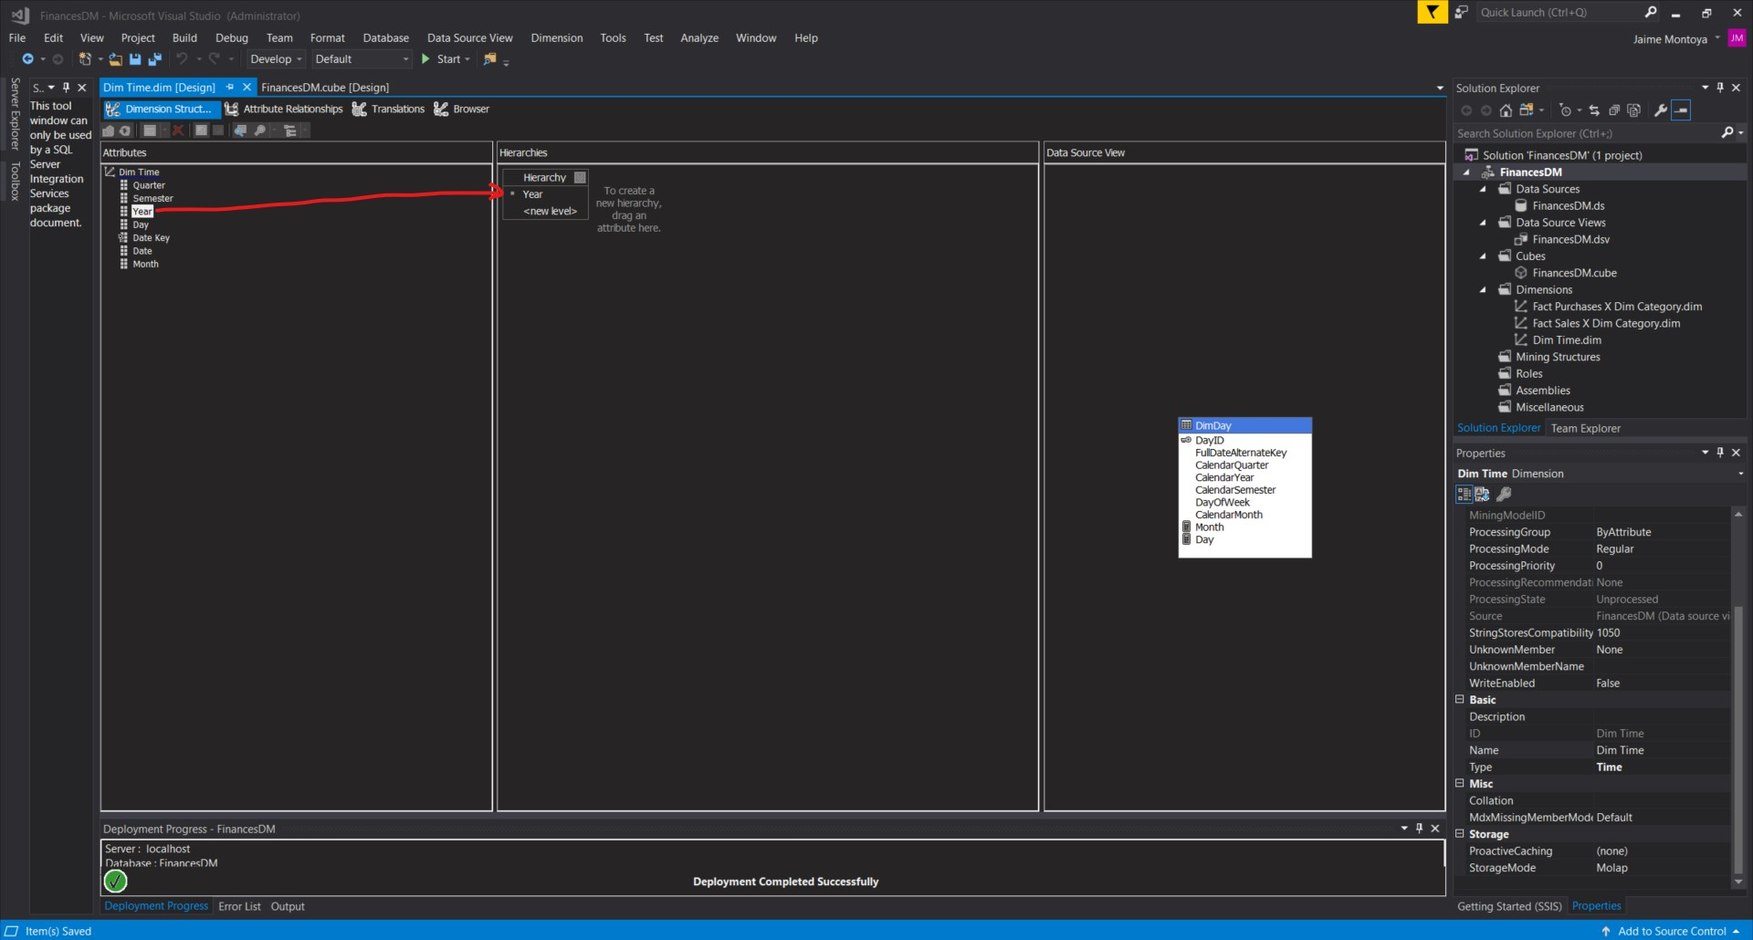
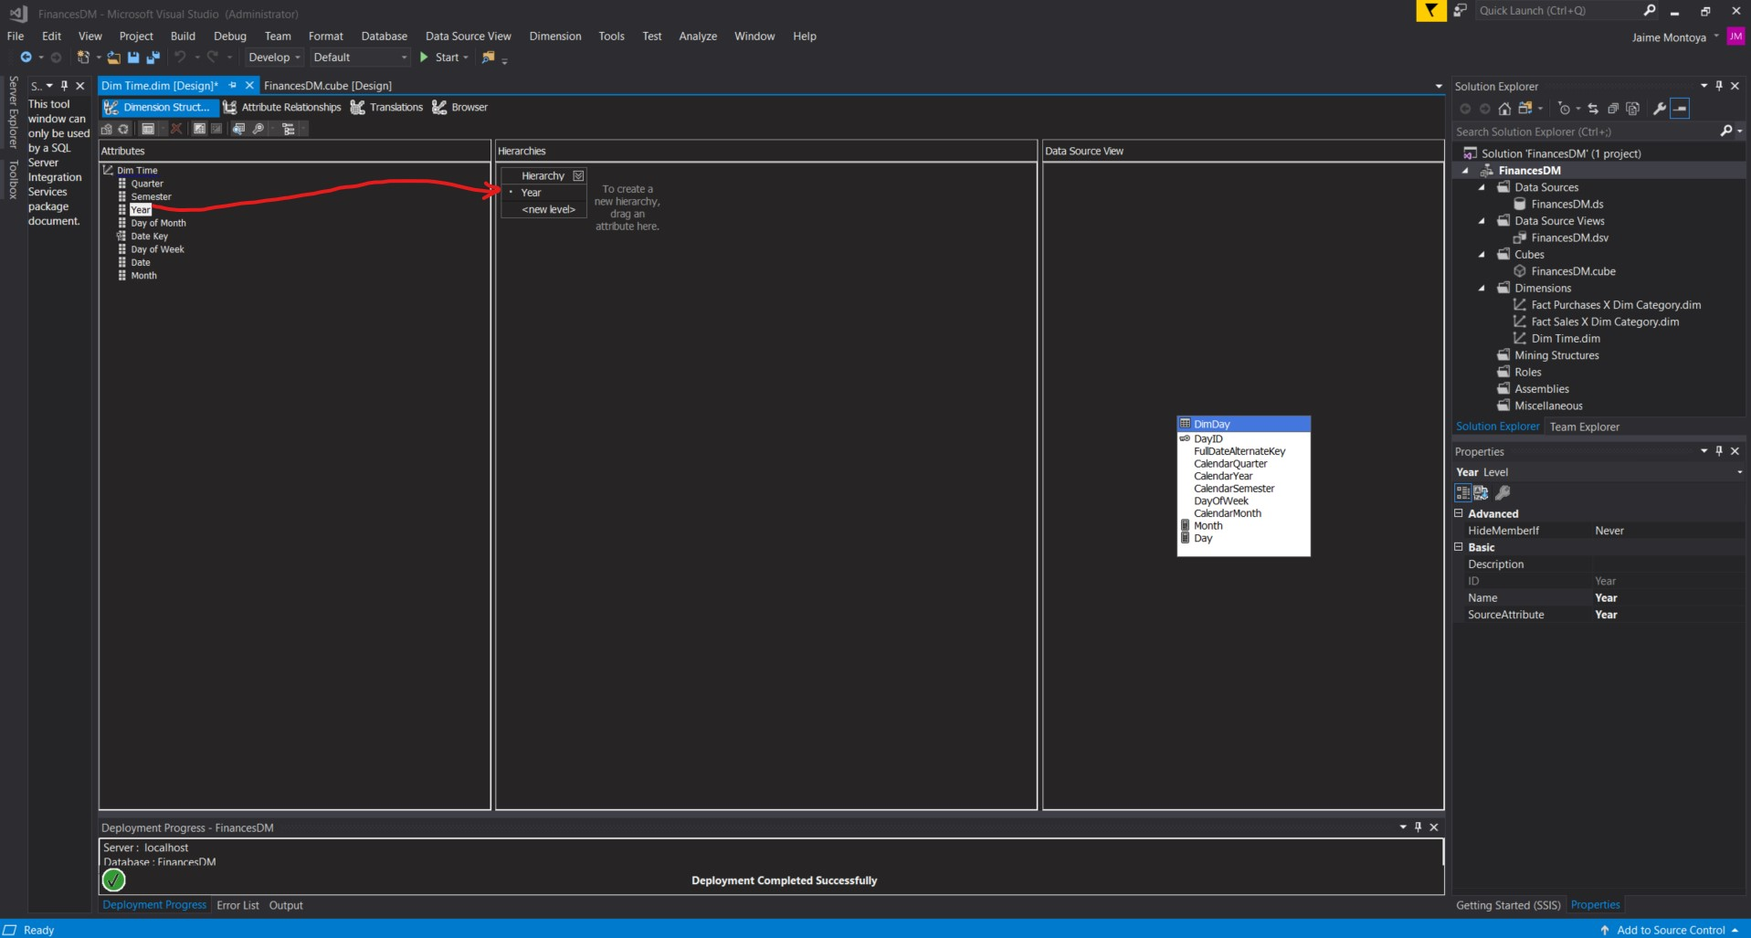
Update image.

diff --git a/blog/2023/12/31/06/14/book-info-20231231-0614.php b/blog/2023/12/31/06/14/book-info-20231231-0614.php
@@ -17,8 +17,8 @@ WHEN CalendarMonth = 11 THEN 'November'
 WHEN CalendarMonth = 12 THEN 'December'
 END
 </pre>		   
-		   </td></tr><tr><td>Day</td><td><span class=\"cod\">CONVERT(int, RIGHT(DayID, 2))</span></td></tr></table><p>I created the <span class=\"cod\">Named Calculation</span> for <span class=\"cod\">Month</span>:</p><div><img src=\"/blog/2023/12/31/06/14/img/createNamedCalculationForMonth.jpg\" alt=\"Create Named Calculation for Month\" width=\"1920\" height=\"1030\"></div><p>I created the <span class=\"cod\">Named Calculation</span> for <span class=\"cod\">Day</span>:</p><div><img src=\"/blog/2023/12/31/06/14/img/createNamedCalculationForDay.jpg\" alt=\"Create Named Calculation for Day\" width=\"1920\" height=\"1026\"></div><p>The new <span class=\"cod\">Named Calculations</span> appeared in the <span class=\"cod\">FinancesDM.dsv Data Source View</span> diagram:</p><div><img src=\"/blog/2023/12/31/06/14/img/calculatedColumnsInDataSourceView.jpg\" alt=\"Calculated columns in Data Source View\" width=\"1919\" height=\"1030\"></div><p>I right-clicked the <span class=\"cod\">DimDay</span> table and clicked <span class=\"cod\">Explore Data</span>:</p><div><img src=\"/blog/2023/12/31/06/14/img/exploreDataFromDataSourceView.jpg\" alt=\"Explore Data from Data Source View\" width=\"1916\" height=\"1028\"></div><p>The <span class=\"cod\">Explore DimDay Table</span> tab appeared with the corresponding results from the view:</p><div><img src=\"/blog/2023/12/31/06/14/img/exploreDimDayTable.jpg\" alt=\"Explore DimDay table\" width=\"1919\" height=\"1030\"></div><p>The results above were exactly the same as when running <span class=\"cod\">SELECT * FROM [Finances].[dbo].[DimDay]</span> from <span class=\"cod\">SQL Server Management Studio</span>, except for the two <span class=\"cod\">Calculated Columns</span> (<span class=\"cod\">Month</span> and <span class=\"cod\">Day</span>):</p><div><img src=\"/blog/2023/12/31/06/14/img/exploreDimDayTableDataFromSQLServerManagementStudio.jpg\" alt=\"Explore DimDay table data from SQL Server Management Studio\" width=\"1920\" height=\"1029\"></div><p>I double-clicked <span class=\"cod\">FinancesDM.cube</span> to open the <span class=\"cod\">FinancesDM.cube [Design]</span> tab. The <span class=\"cod\">Calculated Columns</span> were included in the cube diagram:</p><div><img src=\"/blog/2023/12/31/06/14/img/includeCalculatedColumnsInCubeDiagram.jpg\" alt=\"Include Calculated Columns in cube diagram\" width=\"1917\" height=\"1028\"></div><p>I right-clicked <span class=\"cod\">Dim Time.dim</span> and clicked <span class=\"cod\">Delete</span>:</p><div><img src=\"/blog/2023/12/31/06/14/img/deleteTimeDimension.jpg\" alt=\"Delete Time dimension\" width=\"1918\" height=\"1030\"></div><p>I clicked <span class=\"cod\">OK</span> to delete the <span class=\"cod\">Dim Time</span> object:</p><div><img src=\"/blog/2023/12/31/06/14/img/deleteDimTimeObject.jpg\" alt=\"Delete Dim Time object\" width=\"1918\" height=\"1028\"></div><p>I right-clicked the <span class=\"cod\">Dimensions</span> entry in the <span class=\"cod\">Solution Explorer</span> window, and selected <span class=\"cod\">New Dimension</span> from the context menu:</p><div><img src=\"/blog/2023/12/31/06/14/img/createNewTimeDimension.jpg\" alt=\"Create new Time dimension\" width=\"1922\" height=\"1080\"></div><p>The <span class=\"cod\">Dimension Wizard</span> dialog box appeared. I clicked <span class=\"cod\">Next</span>:</p><div><img src=\"/blog/2023/12/31/06/14/img/startDimensionWizard.jpg\" alt=\"Start Dimension Wizard\" width=\"1918\" height=\"1029\"></div><p>The <span class=\"cod\">Select Creation Method</span> page of the wizard appeared. I left the <span class=\"cod\">Use an existing table</span> item selected and clicked <span class=\"cod\">Next</span>:</p><div><img src=\"/blog/2023/12/31/06/14/img/useAnExistingTableToCreateDimension.jpg\" alt=\"Use an existing table to create dimension\" width=\"1919\" height=\"1028\"></div><p>The <span class=\"cod\">Specify Source Information</span> page appeared. The <span class=\"cod\">FinancesDM</span> data source view was already selected. I selected <span class=\"cod\">DimDay</span> from the <span class=\"cod\">Main table</span> drop-down list. <span class=\"cod\">DayID</span> was selected as the first and only <span class=\"cod\">Key column</span>. I selected <span class=\"cod\">DayID</span> from the drop-down list at the bottom. I clicked <span class=\"cod\">Next</span>:</p><div><img src=\"/blog/2023/12/31/06/14/img/specifySourceInformationForTimeDimension.jpg\" alt=\"Specify Source Information for Time dimension\" width=\"1917\" height=\"1031\"></div><p>The <span class=\"cod\">Select Dimension Attributes</span> page appeared. I left <span class=\"cod\">Day ID</span> checked and also checked <span class=\"cod\">Full Date Alternate Key</span>, <span class=\"cod\">Calendar Quarter</span>, <span class=\"cod\">Calendar Year</span>, <span class=\"cod\">Calendar Semester</span>, <span class=\"cod\">Day Of Week</span>, <span class=\"cod\">Month</span>, and <span class=\"cod\">Day</span>. I clicked in the <span class=\"cod\">Attribute Type column</span> across from <span class=\"cod\">Day ID</span>. I clicked the drop-down arrow. I expanded the <span class=\"cod\">Date</span> entry. I expanded the <span class=\"cod\">Calendar</span> entry. I selected <span class=\"cod\">Date</span> and clicked <span class=\"cod\">OK</span>:</p><div><img src=\"/blog/2023/12/31/06/14/img/defineAttributeTypeForDayID.jpg\" alt=\"Define Attribute Type for Day ID\" width=\"1916\" height=\"1029\"></div><p>I clicked in the <span class=\"cod\">Attribute Type column</span> across from <span class=\"cod\">Full Date Alternate Key</span>. I clicked the drop-down arrow. I expanded the <span class=\"cod\">Date</span> entry. I expanded the <span class=\"cod\">Calendar</span> entry. I selected <span class=\"cod\">Date</span> and clicked <span class=\"cod\">OK</span>:</p><div><img src=\"/blog/2023/12/31/06/14/img/selectDateAttributeType.jpg\" alt=\"Select Date Attribute Type\" width=\"1916\" height=\"1029\"></div><p>I clicked in the <span class=\"cod\">Attribute Type</span> column across from <span class=\"cod\">Calendar Quarter</span>. I clicked the drop-down arrow. I expanded the <span class=\"cod\">Date</span> entry. I expanded the <span class=\"cod\">Calendar</span> entry. I selected <span class=\"cod\">Quarter</span> and clicked <span class=\"cod\">OK</span>:</p><div><img src=\"/blog/2023/12/31/06/14/img/selectQuarterAttributeType.jpg\" alt=\"Select Quarter Attribute Type\" width=\"1917\" height=\"1031\"></div><p>I clicked in the <span class=\"cod\">Attribute Type</span> column across from <span class=\"cod\">Calendar Year</span>. I clicked the drop-down arrow. I expanded the <span class=\"cod\">Date</span> entry. I expanded the <span class=\"cod\">Calendar</span> entry. I selected <span class=\"cod\">Year</span> and clicked <span class=\"cod\">OK</span>:</p><div><img src=\"/blog/2023/12/31/06/14/img/selectYearAttributeTypeForDimension.jpg\" alt=\"Select Year Attribute Type for Dimension\" width=\"1916\" height=\"1030\"></div><p>I clicked in the <span class=\"cod\">Attribute Type</span> column across from <span class=\"cod\">Calendar Semester</span>. I clicked the drop-down arrow. I expanded the <span class=\"cod\">Date</span> entry. I expanded the <span class=\"cod\">Calendar</span> entry. I selected <span class=\"cod\">Half Year</span> and clicked <span class=\"cod\">OK</span>:</p><div><img src=\"/blog/2023/12/31/06/14/img/selectHalfYearAttributeTypeForDimension.jpg\" alt=\"Select Half Year Attribute Type for Dimension\" width=\"1919\" height=\"1028\"></div><p>I clicked in the <span class=\"cod\">Attribute Type</span> column across from <span class=\"cod\">Day Of Week</span>. I clicked the drop-down arrow. I expanded the <span class=\"cod\">Date</span> entry. I expanded the <span class=\"cod\">Calendar</span> entry. I selected <span class=\"cod\">Day of Week</span> and clicked <span class=\"cod\">OK</span>:</p><div><img src=\"/blog/2023/12/31/06/14/img/selectDayOfWeekAttributeTypeForDimension.jpg\" alt=\"Select Month Attribute Type for Dimension\" width=\"1919\" height=\"1026\"></div><p>I clicked in the <span class=\"cod\">Attribute Type</span> column across from <span class=\"cod\">Month</span>. I clicked the drop-down arrow. I expanded the <span class=\"cod\">Date</span> entry. I expanded the <span class=\"cod\">Calendar</span> entry. I selected <span class=\"cod\">Month</span> and clicked <span class=\"cod\">OK</span>:</p><div><img src=\"/blog/2023/12/31/06/14/img/selectMonthAttributeTypeForDimension.jpg\" alt=\"Select Month Attribute Type for Dimension\" width=\"1915\" height=\"1025\"></div><p>I clicked in the <span class=\"cod\">Attribute Type</span> column across from <span class=\"cod\">Day</span>. I clicked the drop-down arrow. I expanded the <span class=\"cod\">Date</span> entry. I expanded the <span class=\"cod\">Calendar</span> entry. I selected <span class=\"cod\">Day of Month</span> and clicked <span class=\"cod\">OK</span>:</p><div><img src=\"/blog/2023/12/31/06/14/img/selectDayOfMonthAttributeForDimension.jpg\" alt=\"Select Day of Month Attribute Type for Dimension\" width=\"1917\" height=\"1029\"></div><p>I clicked <span class=\"cod\">Next</span>:</p><div><img src=\"/blog/2023/12/31/06/14/img/clickNextAfterSelectingTimeDimensionAttributes.jpg\" alt=\"Click Next after selecting Time Dimension attributes\" width=\"1917\" height=\"1030\"></div><p>The <span class=\"cod\">Completing the Wizard</span> page appeared. I changed the name to <span class=\"cod\">Dim Time</span>. I clicked <span class=\"cod\">Finish</span>:</p><div><img src=\"/blog/2023/12/31/06/14/img/clickFinishToCompleteCreationOfTimeDimension.jpg\" alt=\"Click Finish to complete creation of Time Dimension\" width=\"1918\" height=\"1029\"></div><p>The <span class=\"cod\">Dimension Design</span> tab appeared with the <span class=\"cod\">Dim Time</span> dimension:</p><div><img src=\"/blog/2023/12/31/06/14/img/timeDimensionDesignTabForNewTimeDimension.jpg\" alt=\"Time Dimension Design tab for new Time Dimension\" width=\"1917\" height=\"1028\"></div><p>I right-clicked the entry for <span class=\"cod\">Day ID</span> in the <span class=\"cod\">Attributes</span> area, and selected <span class=\"cod\">Rename</span> from the context menu:</p><div><img src=\"/blog/2023/12/31/06/14/img/renameDayIDAttribute.jpg\" alt=\"Rename Day ID Attribute\" width=\"1914\" height=\"1028\"></div><p>I entered <span class=\"cod\">Date Key</span> for the name of this attribute, and pressed <span class=\"cod\">ENTER</span>:</p><div><img src=\"/blog/2023/12/31/06/14/img/dayIDRenamedToDateKey.jpg\" alt=\"Day ID renamed to Date Key\" width=\"1918\" height=\"1028\"></div><p>I repeated the steps above to rename the other attributes as follows:</p><table><tbody><tr><th>Old name</th><th>New name</th></tr><tr><td>Calendar Quarter</td><td>Quarter</td></tr><tr><td>Calendar Semester</td><td>Semester</td></tr><tr><td>Calendar Year</td><td>Year</td></tr><tr><td>Day</td><td>Day of Month</td></tr><tr><td>Day Of Week</td><td>Day of Week</td></tr><tr><td>Full Date Alternate Key</td><td>Date</td></tr></tbody></table><div><img src=\"/blog/2023/12/31/06/14/img/renameTimeAttributes.jpg\" alt=\"Rename Time Attributes\" width=\"1917\" height=\"1027\"></div>
+		   </td></tr><tr><td>Day</td><td><span class=\"cod\">CONVERT(int, RIGHT(DayID, 2))</span></td></tr></table><p>I created the <span class=\"cod\">Named Calculation</span> for <span class=\"cod\">Month</span>:</p><div><img src=\"/blog/2023/12/31/06/14/img/createNamedCalculationForMonth.jpg\" alt=\"Create Named Calculation for Month\" width=\"1920\" height=\"1030\"></div><p>I created the <span class=\"cod\">Named Calculation</span> for <span class=\"cod\">Day</span>:</p><div><img src=\"/blog/2023/12/31/06/14/img/createNamedCalculationForDay.jpg\" alt=\"Create Named Calculation for Day\" width=\"1920\" height=\"1026\"></div><p>The new <span class=\"cod\">Named Calculations</span> appeared in the <span class=\"cod\">FinancesDM.dsv Data Source View</span> diagram:</p><div><img src=\"/blog/2023/12/31/06/14/img/calculatedColumnsInDataSourceView.jpg\" alt=\"Calculated columns in Data Source View\" width=\"1919\" height=\"1030\"></div><p>I right-clicked the <span class=\"cod\">DimDay</span> table and clicked <span class=\"cod\">Explore Data</span>:</p><div><img src=\"/blog/2023/12/31/06/14/img/exploreDataFromDataSourceView.jpg\" alt=\"Explore Data from Data Source View\" width=\"1916\" height=\"1028\"></div><p>The <span class=\"cod\">Explore DimDay Table</span> tab appeared with the corresponding results from the view:</p><div><img src=\"/blog/2023/12/31/06/14/img/exploreDimDayTable.jpg\" alt=\"Explore DimDay table\" width=\"1919\" height=\"1030\"></div><p>The results above were exactly the same as when running <span class=\"cod\">SELECT * FROM [Finances].[dbo].[DimDay]</span> from <span class=\"cod\">SQL Server Management Studio</span>, except for the two <span class=\"cod\">Calculated Columns</span> (<span class=\"cod\">Month</span> and <span class=\"cod\">Day</span>):</p><div><img src=\"/blog/2023/12/31/06/14/img/exploreDimDayTableDataFromSQLServerManagementStudio.jpg\" alt=\"Explore DimDay table data from SQL Server Management Studio\" width=\"1920\" height=\"1029\"></div><p>I double-clicked <span class=\"cod\">FinancesDM.cube</span> to open the <span class=\"cod\">FinancesDM.cube [Design]</span> tab. The <span class=\"cod\">Calculated Columns</span> were included in the cube diagram:</p><div><img src=\"/blog/2023/12/31/06/14/img/includeCalculatedColumnsInCubeDiagram.jpg\" alt=\"Include Calculated Columns in cube diagram\" width=\"1917\" height=\"1028\"></div><p>I right-clicked <span class=\"cod\">Dim Time.dim</span> and clicked <span class=\"cod\">Delete</span>:</p><div><img src=\"/blog/2023/12/31/06/14/img/deleteTimeDimension.jpg\" alt=\"Delete Time dimension\" width=\"1918\" height=\"1030\"></div><p>I clicked <span class=\"cod\">OK</span> to delete the <span class=\"cod\">Dim Time</span> object:</p><div><img src=\"/blog/2023/12/31/06/14/img/deleteDimTimeObject.jpg\" alt=\"Delete Dim Time object\" width=\"1918\" height=\"1028\"></div><p>I right-clicked the <span class=\"cod\">Dimensions</span> entry in the <span class=\"cod\">Solution Explorer</span> window, and selected <span class=\"cod\">New Dimension</span> from the context menu:</p><div><img src=\"/blog/2023/12/31/06/14/img/createNewTimeDimension.jpg\" alt=\"Create new Time dimension\" width=\"1922\" height=\"1080\"></div><p>The <span class=\"cod\">Dimension Wizard</span> dialog box appeared. I clicked <span class=\"cod\">Next</span>:</p><div><img src=\"/blog/2023/12/31/06/14/img/startDimensionWizard.jpg\" alt=\"Start Dimension Wizard\" width=\"1918\" height=\"1029\"></div><p>The <span class=\"cod\">Select Creation Method</span> page of the wizard appeared. I left the <span class=\"cod\">Use an existing table</span> item selected and clicked <span class=\"cod\">Next</span>:</p><div><img src=\"/blog/2023/12/31/06/14/img/useAnExistingTableToCreateDimension.jpg\" alt=\"Use an existing table to create dimension\" width=\"1919\" height=\"1028\"></div><p>The <span class=\"cod\">Specify Source Information</span> page appeared. The <span class=\"cod\">FinancesDM</span> data source view was already selected. I selected <span class=\"cod\">DimDay</span> from the <span class=\"cod\">Main table</span> drop-down list. <span class=\"cod\">DayID</span> was selected as the first and only <span class=\"cod\">Key column</span>. I selected <span class=\"cod\">DayID</span> from the drop-down list at the bottom. I clicked <span class=\"cod\">Next</span>:</p><div><img src=\"/blog/2023/12/31/06/14/img/specifySourceInformationForTimeDimension.jpg\" alt=\"Specify Source Information for Time dimension\" width=\"1917\" height=\"1031\"></div><p>The <span class=\"cod\">Select Dimension Attributes</span> page appeared. I left <span class=\"cod\">Day ID</span> checked and also checked <span class=\"cod\">Full Date Alternate Key</span>, <span class=\"cod\">Calendar Quarter</span>, <span class=\"cod\">Calendar Year</span>, <span class=\"cod\">Calendar Semester</span>, <span class=\"cod\">Day Of Week</span>, <span class=\"cod\">Month</span>, and <span class=\"cod\">Day</span>. I clicked in the <span class=\"cod\">Attribute Type column</span> across from <span class=\"cod\">Day ID</span>. I clicked the drop-down arrow. I expanded the <span class=\"cod\">Date</span> entry. I expanded the <span class=\"cod\">Calendar</span> entry. I selected <span class=\"cod\">Date</span> and clicked <span class=\"cod\">OK</span>:</p><div><img src=\"/blog/2023/12/31/06/14/img/defineAttributeTypeForDayID.jpg\" alt=\"Define Attribute Type for Day ID\" width=\"1916\" height=\"1029\"></div><p>I clicked in the <span class=\"cod\">Attribute Type column</span> across from <span class=\"cod\">Full Date Alternate Key</span>. I clicked the drop-down arrow. I expanded the <span class=\"cod\">Date</span> entry. I expanded the <span class=\"cod\">Calendar</span> entry. I selected <span class=\"cod\">Date</span> and clicked <span class=\"cod\">OK</span>:</p><div><img src=\"/blog/2023/12/31/06/14/img/selectDateAttributeType.jpg\" alt=\"Select Date Attribute Type\" width=\"1916\" height=\"1029\"></div><p>I clicked in the <span class=\"cod\">Attribute Type</span> column across from <span class=\"cod\">Calendar Quarter</span>. I clicked the drop-down arrow. I expanded the <span class=\"cod\">Date</span> entry. I expanded the <span class=\"cod\">Calendar</span> entry. I selected <span class=\"cod\">Quarter</span> and clicked <span class=\"cod\">OK</span>:</p><div><img src=\"/blog/2023/12/31/06/14/img/selectQuarterAttributeType.jpg\" alt=\"Select Quarter Attribute Type\" width=\"1917\" height=\"1031\"></div><p>I clicked in the <span class=\"cod\">Attribute Type</span> column across from <span class=\"cod\">Calendar Year</span>. I clicked the drop-down arrow. I expanded the <span class=\"cod\">Date</span> entry. I expanded the <span class=\"cod\">Calendar</span> entry. I selected <span class=\"cod\">Year</span> and clicked <span class=\"cod\">OK</span>:</p><div><img src=\"/blog/2023/12/31/06/14/img/selectYearAttributeTypeForDimension.jpg\" alt=\"Select Year Attribute Type for Dimension\" width=\"1916\" height=\"1030\"></div><p>I clicked in the <span class=\"cod\">Attribute Type</span> column across from <span class=\"cod\">Calendar Semester</span>. I clicked the drop-down arrow. I expanded the <span class=\"cod\">Date</span> entry. I expanded the <span class=\"cod\">Calendar</span> entry. I selected <span class=\"cod\">Half Year</span> and clicked <span class=\"cod\">OK</span>:</p><div><img src=\"/blog/2023/12/31/06/14/img/selectHalfYearAttributeTypeForDimension.jpg\" alt=\"Select Half Year Attribute Type for Dimension\" width=\"1919\" height=\"1028\"></div><p>I clicked in the <span class=\"cod\">Attribute Type</span> column across from <span class=\"cod\">Day Of Week</span>. I clicked the drop-down arrow. I expanded the <span class=\"cod\">Date</span> entry. I expanded the <span class=\"cod\">Calendar</span> entry. I selected <span class=\"cod\">Day of Week</span> and clicked <span class=\"cod\">OK</span>:</p><div><img src=\"/blog/2023/12/31/06/14/img/selectDayOfWeekAttributeTypeForDimension.jpg\" alt=\"Select Month Attribute Type for Dimension\" width=\"1919\" height=\"1026\"></div><p>I clicked in the <span class=\"cod\">Attribute Type</span> column across from <span class=\"cod\">Month</span>. I clicked the drop-down arrow. I expanded the <span class=\"cod\">Date</span> entry. I expanded the <span class=\"cod\">Calendar</span> entry. I selected <span class=\"cod\">Month</span> and clicked <span class=\"cod\">OK</span>:</p><div><img src=\"/blog/2023/12/31/06/14/img/selectMonthAttributeTypeForDimension.jpg\" alt=\"Select Month Attribute Type for Dimension\" width=\"1915\" height=\"1025\"></div><p>I clicked in the <span class=\"cod\">Attribute Type</span> column across from <span class=\"cod\">Day</span>. I clicked the drop-down arrow. I expanded the <span class=\"cod\">Date</span> entry. I expanded the <span class=\"cod\">Calendar</span> entry. I selected <span class=\"cod\">Day of Month</span> and clicked <span class=\"cod\">OK</span>:</p><div><img src=\"/blog/2023/12/31/06/14/img/selectDayOfMonthAttributeForDimension.jpg\" alt=\"Select Day of Month Attribute Type for Dimension\" width=\"1917\" height=\"1029\"></div><p>I clicked <span class=\"cod\">Next</span>:</p><div><img src=\"/blog/2023/12/31/06/14/img/clickNextAfterSelectingTimeDimensionAttributes.jpg\" alt=\"Click Next after selecting Time Dimension attributes\" width=\"1917\" height=\"1030\"></div><p>The <span class=\"cod\">Completing the Wizard</span> page appeared. I changed the name to <span class=\"cod\">Dim Time</span>. I clicked <span class=\"cod\">Finish</span>:</p><div><img src=\"/blog/2023/12/31/06/14/img/clickFinishToCompleteCreationOfTimeDimension.jpg\" alt=\"Click Finish to complete creation of Time Dimension\" width=\"1918\" height=\"1029\"></div><p>The <span class=\"cod\">Dimension Design</span> tab appeared with the <span class=\"cod\">Dim Time</span> dimension:</p><div><img src=\"/blog/2023/12/31/06/14/img/timeDimensionDesignTabForNewTimeDimension.jpg\" alt=\"Time Dimension Design tab for new Time Dimension\" width=\"1917\" height=\"1028\"></div><p>I right-clicked the entry for <span class=\"cod\">Day ID</span> in the <span class=\"cod\">Attributes</span> area, and selected <span class=\"cod\">Rename</span> from the context menu:</p><div><img src=\"/blog/2023/12/31/06/14/img/renameDayIDAttribute.jpg\" alt=\"Rename Day ID Attribute\" width=\"1914\" height=\"1028\"></div><p>I entered <span class=\"cod\">Date Key</span> for the name of this attribute, and pressed <span class=\"cod\">ENTER</span>:</p><div><img src=\"/blog/2023/12/31/06/14/img/dayIDRenamedToDateKey.jpg\" alt=\"Day ID renamed to Date Key\" width=\"1918\" height=\"1028\"></div><p>I repeated the steps above to rename the other attributes as follows:</p><table><tbody><tr><th>Old name</th><th>New name</th></tr><tr><td>Calendar Quarter</td><td>Quarter</td></tr><tr><td>Calendar Semester</td><td>Semester</td></tr><tr><td>Calendar Year</td><td>Year</td></tr><tr><td>Day</td><td>Day of Month</td></tr><tr><td>Day Of Week</td><td>Day of Week</td></tr><tr><td>Full Date Alternate Key</td><td>Date</td></tr></tbody></table><div><img src=\"/blog/2023/12/31/06/14/img/renameTimeAttributes.jpg\" alt=\"Rename Time Attributes\" width=\"1917\" height=\"1027\"></div><p>I dragged the <span class=\"cod\">Year</span> item from the <span class=\"cod\">Attributes</span> column, and dropped it in the <span class=\"cod\">Hierarchies</span> area:</p><div><img src=\"/blog/2023/12/31/06/14/img/moveYearAttributeToHierarchy.jpg\" alt=\"Move Year Attribute to Hierarchy\" width=\"1917\" height=\"1027\"></div>
 		   
 		   
-		   <p>I dragged the <span class=\"cod\">Year</span> item from the <span class=\"cod\">Attributes</span> column, and dropped it in the <span class=\"cod\">Hierarchies</span> area:</p><div><img src=\"/blog/2023/12/31/06/14/img/moveYearAttributeToHierarchy.jpg\" alt=\"Move Year Attribute to Hierarchy\" width=\"1920\" height=\"1030\"></div><p>I dragged the <span class=\"cod\">Semester</span> item from the <span class=\"cod\">Attributes</span> column, and dropped it on <span class=\"cod\">&lt;new level&gt;</span> in the <span class=\"cod\">Hierarchies</span> area:</p><div><img src=\"/blog/2023/12/31/06/14/img/moveSemesterAttributeToHierarchy.jpg\" alt=\"Move Semester Attribute to Hierarchy\" width=\"1916\" height=\"1029\"></div> <div>Published: 6:14 AM GMT · Dec 31, 2023</div>\n";
+		   <p>I dragged the <span class=\"cod\">Semester</span> item from the <span class=\"cod\">Attributes</span> column, and dropped it on <span class=\"cod\">&lt;new level&gt;</span> in the <span class=\"cod\">Hierarchies</span> area:</p><div><img src=\"/blog/2023/12/31/06/14/img/moveSemesterAttributeToHierarchy.jpg\" alt=\"Move Semester Attribute to Hierarchy\" width=\"1916\" height=\"1029\"></div> <div>Published: 6:14 AM GMT · Dec 31, 2023</div>\n";
 ?>
